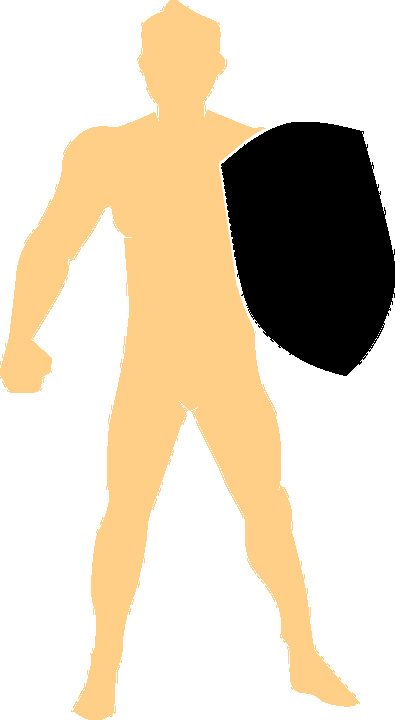
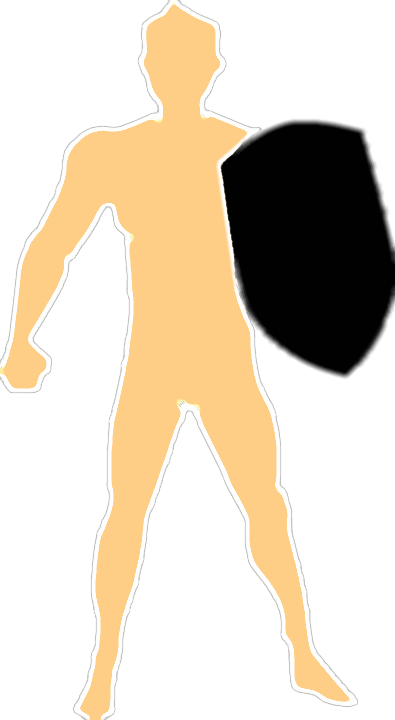
Add nav-left, increase reponsive, change some graphic

diff --git a/web/css/style.css b/web/css/style.css
@@ -70,8 +70,25 @@
 
 .nav-left
 {
-	background-color:#61210B;
+	background-color:black;
 	height:500px;
+	padding:10px;
+}
+
+.nav-text, .nav-text-alt
+{
+	background-color:#2A120A;
+	margin-top:10px;
+}
+
+.nav-text a
+{
+	color:#DBA901;
+}
+
+.nav-text-alt a
+{
+	color:#FF4000;
 }
 
 .main-perso
@@ -120,9 +137,21 @@
 	padding:10px;
 }
 
+.main-perso-inventaire-text
+{
+	height:50px;
+}
+
 .main-perso-inventaire-text h2
 {
 	color:#FFFFFF;
+	font-size:2em;
+}
+
+.main-perso-inventaire-text h2 img
+{
+	height:30px;
+	width:30px;
 }
 
 .main-perso-inventaire
@@ -180,7 +209,7 @@
 .top-footer
 {
 	height:10px;
-	background-color:#DF7401;
+	background-color:#DBA901;
 }
 
 .main-footer

diff --git a/src/houseBundle/Entity/Datauser.php b/src/houseBundle/Entity/Datauser.php
@@ -45,6 +45,13 @@ class Datauser
     /**
      * @var int
      *
+     * @ORM\Column(name="defense", type="integer", nullable=true)
+     */
+    private $defense;
+
+    /**
+     * @var int
+     *
      * @ORM\Column(name="life", type="integer", nullable=true)
      */
     private $life;
@@ -118,6 +125,29 @@ class Datauser
     public function getStuff()
     {
         return $this->stuff;
+    }
+
+    /**
+     * Set defense
+     *
+     * @param integer $defense
+     * @return Datauser
+     */
+    public function setDefense($defense)
+    {
+        $this->defense = $defense;
+
+        return $this;
+    }
+
+    /**
+     * Get defense
+     *
+     * @return integer 
+     */
+    public function getDefense()
+    {
+        return $this->defense;
     }
 
     /**

diff --git a/src/houseBundle/Controller/DefaultController.php b/src/houseBundle/Controller/DefaultController.php
@@ -6,8 +6,8 @@ use Symfony\Bundle\FrameworkBundle\Controller\Controller;
 
 class DefaultController extends Controller
 {
-    public function indexAction()
+    public function characterAction()
     {
-        return $this->render('houseBundle:frontend:dashboard.html.twig');
+        return $this->render('houseBundle:frontend:character.html.twig');
     }
 }
